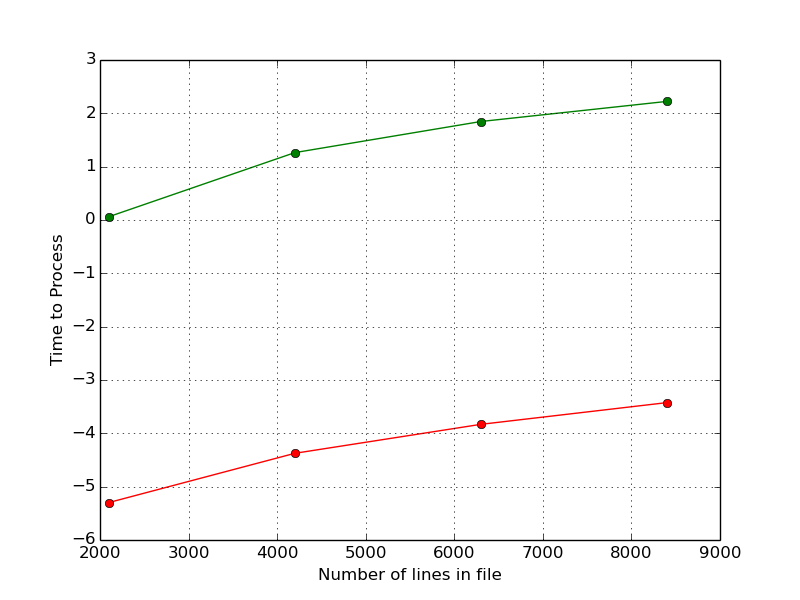
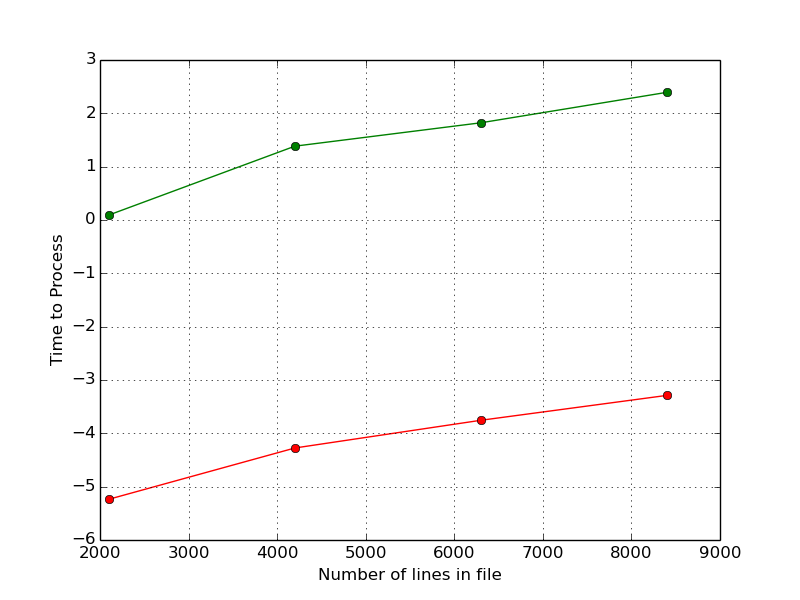
computing final results or report

diff --git a/thread_vector_compare/test/runner.cpp b/thread_vector_compare/test/runner.cpp
@@ -5,7 +5,7 @@
 
 #define BASE_CASE 0
 #define MULTI_PROC 1
-#define MULTI_FILE 0
+#define MULTI_FILE 1
 
 #ifndef POSITION
 #define POSITION 0
@@ -41,7 +41,7 @@ int main(int argc, char** argv){
 
     chrono::duration<double> read_time_elapse;
 
-    string filename("../../../6300_HPC.csv");
+    string filename("../../../8400_HPC.csv");
 
 
 
@@ -94,7 +94,7 @@ int main(int argc, char** argv){
             for(int i = 0; i < procs.size(); i++){
                 chrono::duration<double> proc_time_elapse;
                 cout<<procs.at(i)<<" Threads"<<endl;
-                v.computVectorMatch("agricultural/agricultural00_rot_090.tif",2000,procs.at(i),&proc_time_elapse);
+                v.computVectorMatch("agricultural/agricultural00_rot_090.tif",1000,procs.at(i),&proc_time_elapse);
                 //v.computVectorMatch("agricultural/agricultural00_rot_000.tif",100,procs.at(i),&proc_time_elapse);
                 //v.computVectorMatch("agricultural/agricultural00.tif",100,procs.at(i),&proc_time_elapse);
                 times.push_back(proc_time_elapse.count());
@@ -102,8 +102,8 @@ int main(int argc, char** argv){
             }
 
             //write the times to a file
-            output_vector_to_file("test.csv",procs,1);
-            output_vector_to_file("test.csv",times,1);
+            output_vector_to_file("../../../hw3Data/test.csv",procs,1);
+            output_vector_to_file("../../../hw3Data/test.csv",times,1);
 
 
         }
@@ -130,7 +130,7 @@ int main(int argc, char** argv){
         if(p.parse_file(inputFileNames.at(i),&read_time_elapse)){
             fileReadTimes.push_back(read_time_elapse.count());
             VectorMatch v(nameMap,(*dataVector).data(),p.get_line_length());
-            v.computVectorMatch(inputFileFirsts.at(i),2000,4,&proc_time_elapse);
+            v.computVectorMatch(inputFileFirsts.at(i),1000,4,&proc_time_elapse);
             times.push_back(proc_time_elapse.count());
         }
         else{
@@ -145,9 +145,9 @@ int main(int argc, char** argv){
     inputNums.push_back(6300);
     inputNums.push_back(8400);
 
-    output_vector_to_file("multiFile.csv",inputNums,1);
-    output_vector_to_file("multiFile.csv",times,1);
-    output_vector_to_file("multiFile.csv",fileReadTimes,1);
+    output_vector_to_file("../../../hw3Data/multiFile.csv",inputNums,1);
+    output_vector_to_file("../../../hw3Data/multiFile.csv",times,1);
+    output_vector_to_file("../../../hw3Data/multiFile.csv",fileReadTimes,1);
 
 #endif
     //run python scripts for graphing

diff --git a/thread_vector_compare/plotter.py b/thread_vector_compare/plotter.py
@@ -3,34 +3,34 @@ import numpy as np
 
 
 
-data = np.genfromtxt('test.csv', delimiter=',')
-dataMultiFIle = np.genfromtxt('multiFile.csv',delimiter=',')
+# data = np.genfromtxt('test.csv', delimiter=',')
+# dataMultiFIle = np.genfromtxt('multiFile.csv',delimiter=',')
 
 
 
 
 
-plt.plot(data[0], data[1], 'ro-')
+# plt.plot(data[0], data[1], 'ro-')
 
-plt.axis([0,20, 0, .3])
-plt.xticks(np.arange(0,20,2))
+# plt.axis([0,20, 0, .3])
+# plt.xticks(np.arange(0,20,2))
 
-plt.xlabel('Number of Procs')
-plt.ylabel('Time to Process')
-plt.grid(True)
-fig1 = plt.gcf()
-fig1.savefig('../figs/multiProc.png')
+# plt.xlabel('Number of Procs')
+# plt.ylabel('Time to Process')
+# plt.grid(True)
+# fig1 = plt.gcf()
+# fig1.savefig('../figs/multiProc.png')
 
-plt.show()
+# plt.show()
 
-plt.plot(dataMultiFIle[0],[ np.log2(i) for i in dataMultiFIle[1]],'ro-')
-plt.plot(dataMultiFIle[0],[ np.log2(i) for i in dataMultiFIle[2]],'go-')
+# plt.plot(dataMultiFIle[0],[ np.log2(i) for i in dataMultiFIle[1]],'ro-')
+# plt.plot(dataMultiFIle[0],[ np.log2(i) for i in dataMultiFIle[2]],'go-')
 
-plt.xlabel('Number of lines in file')
-plt.ylabel('Time to Process')
-# plt.axis([2000, 9000, 0, .45])
-plt.grid(True)
-fig2 = plt.gcf()
-fig2.savefig('../figs/multiFile.png')
-plt.show()
+# plt.xlabel('Number of lines in file')
+# plt.ylabel('Time to Process')
+# # plt.axis([2000, 9000, 0, .45])
+# plt.grid(True)
+# fig2 = plt.gcf()
+# fig2.savefig('../figs/multiFile.png')
+# plt.show()
 
